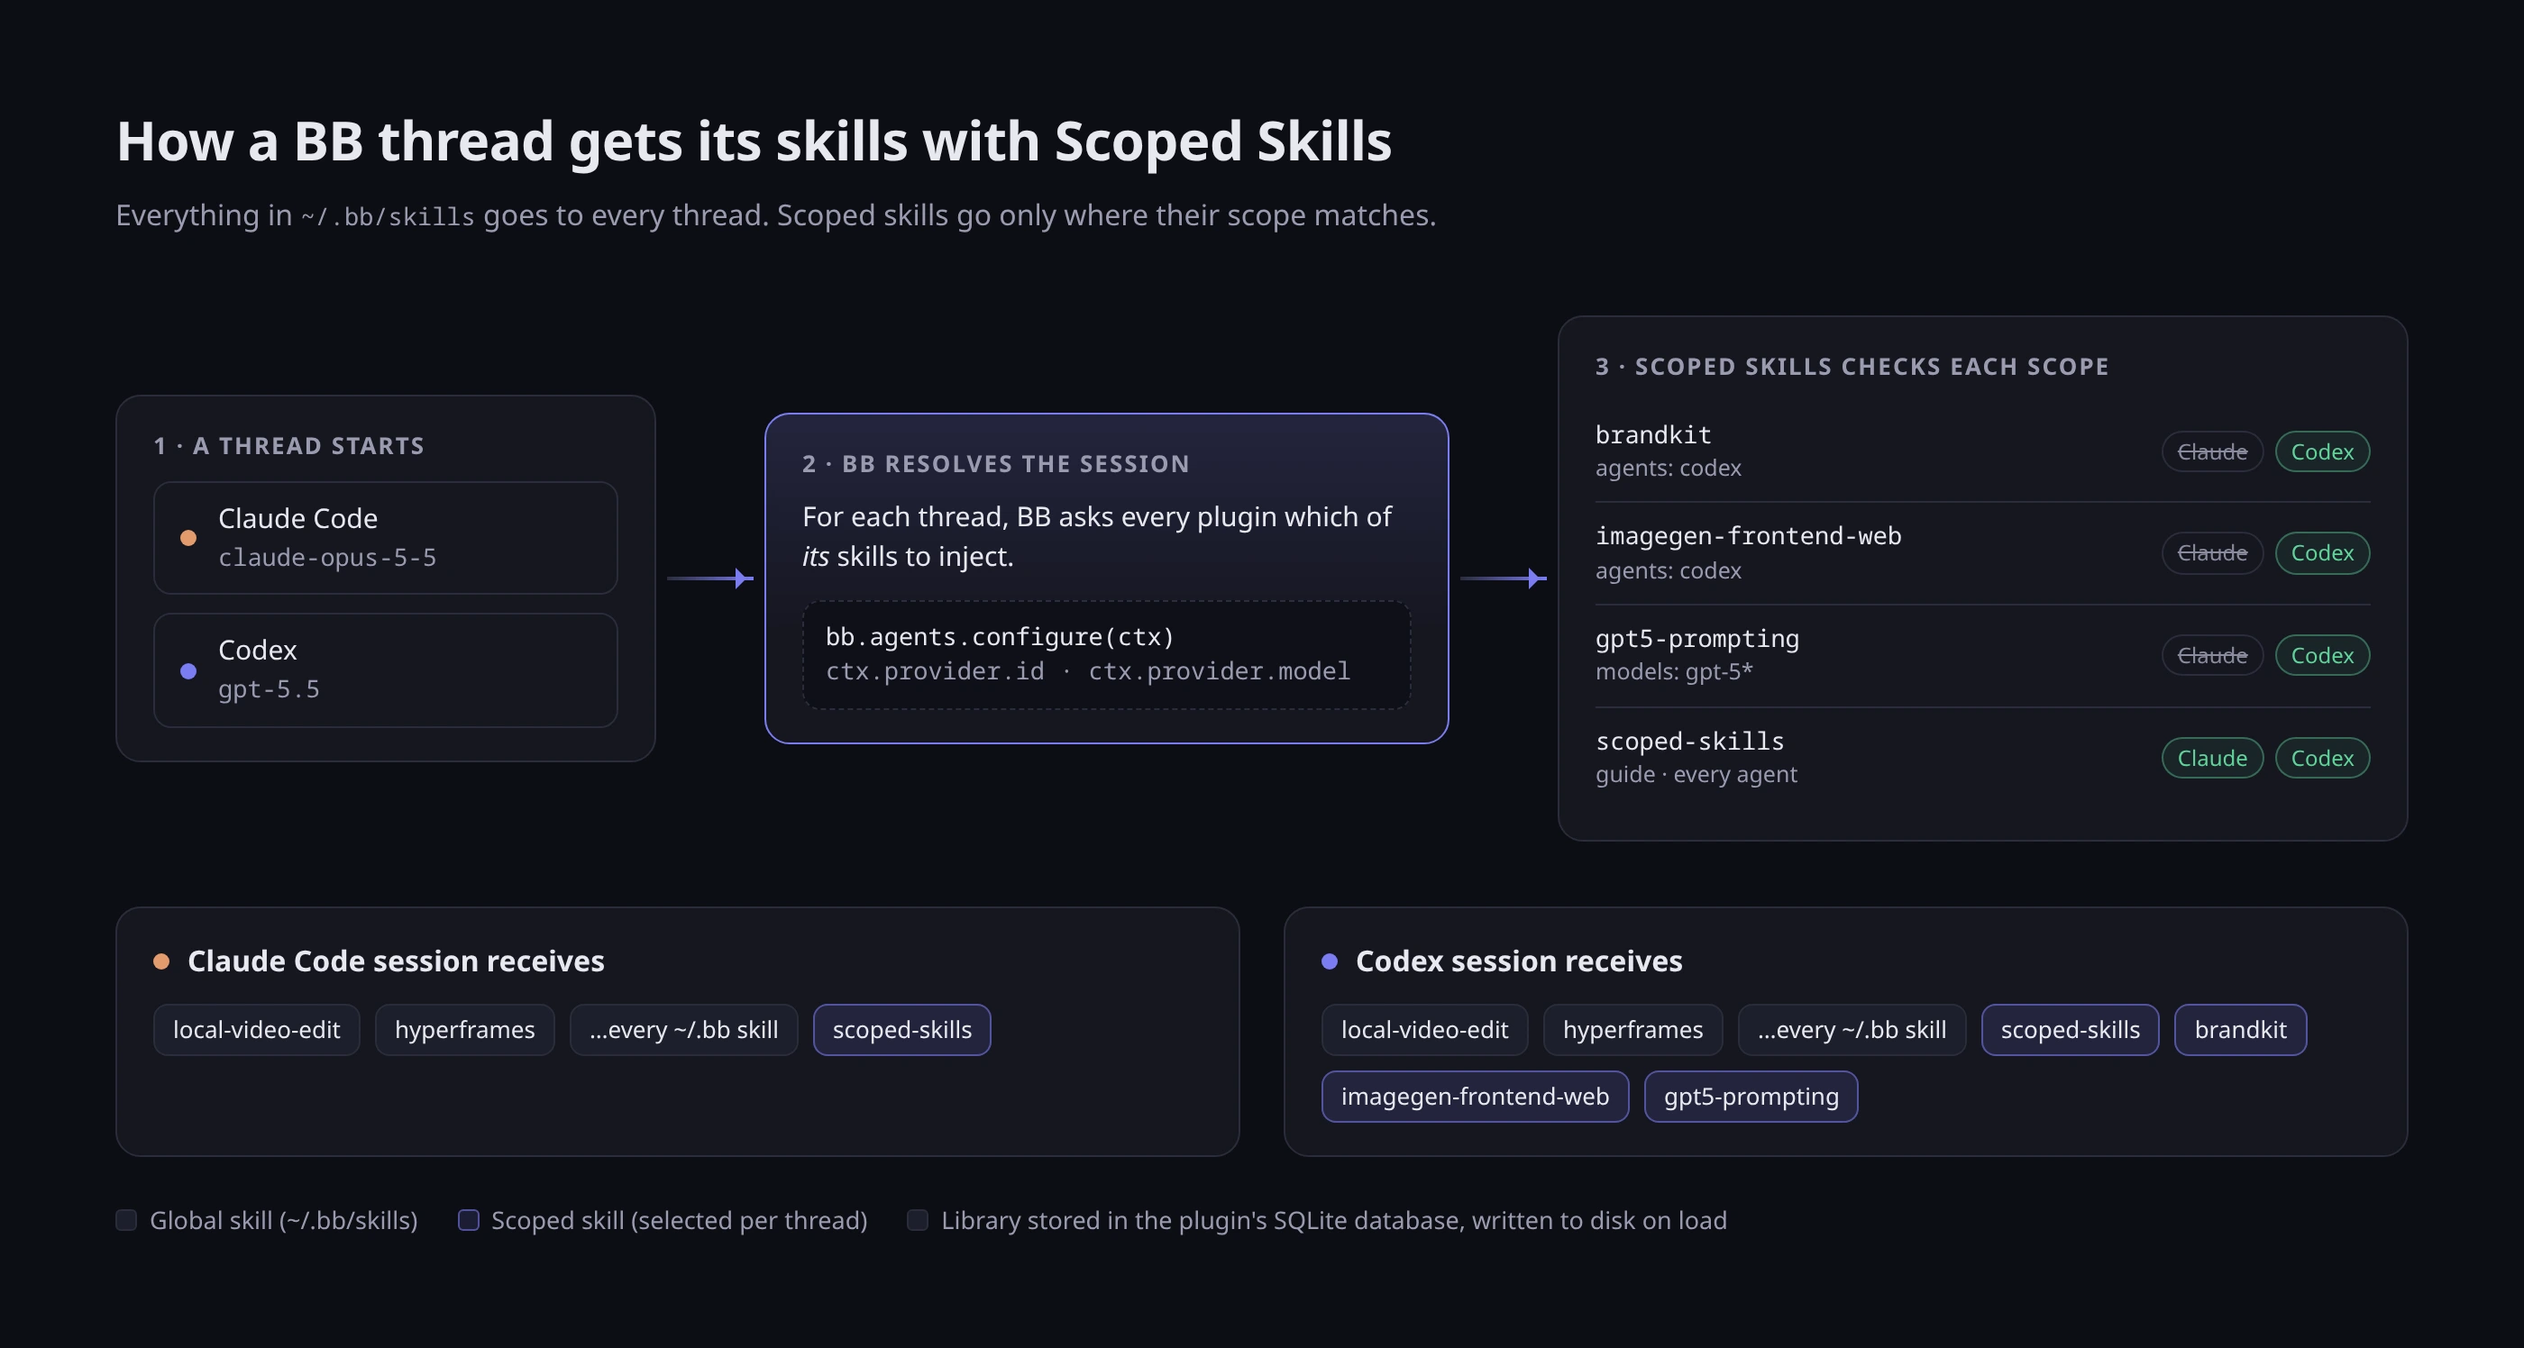
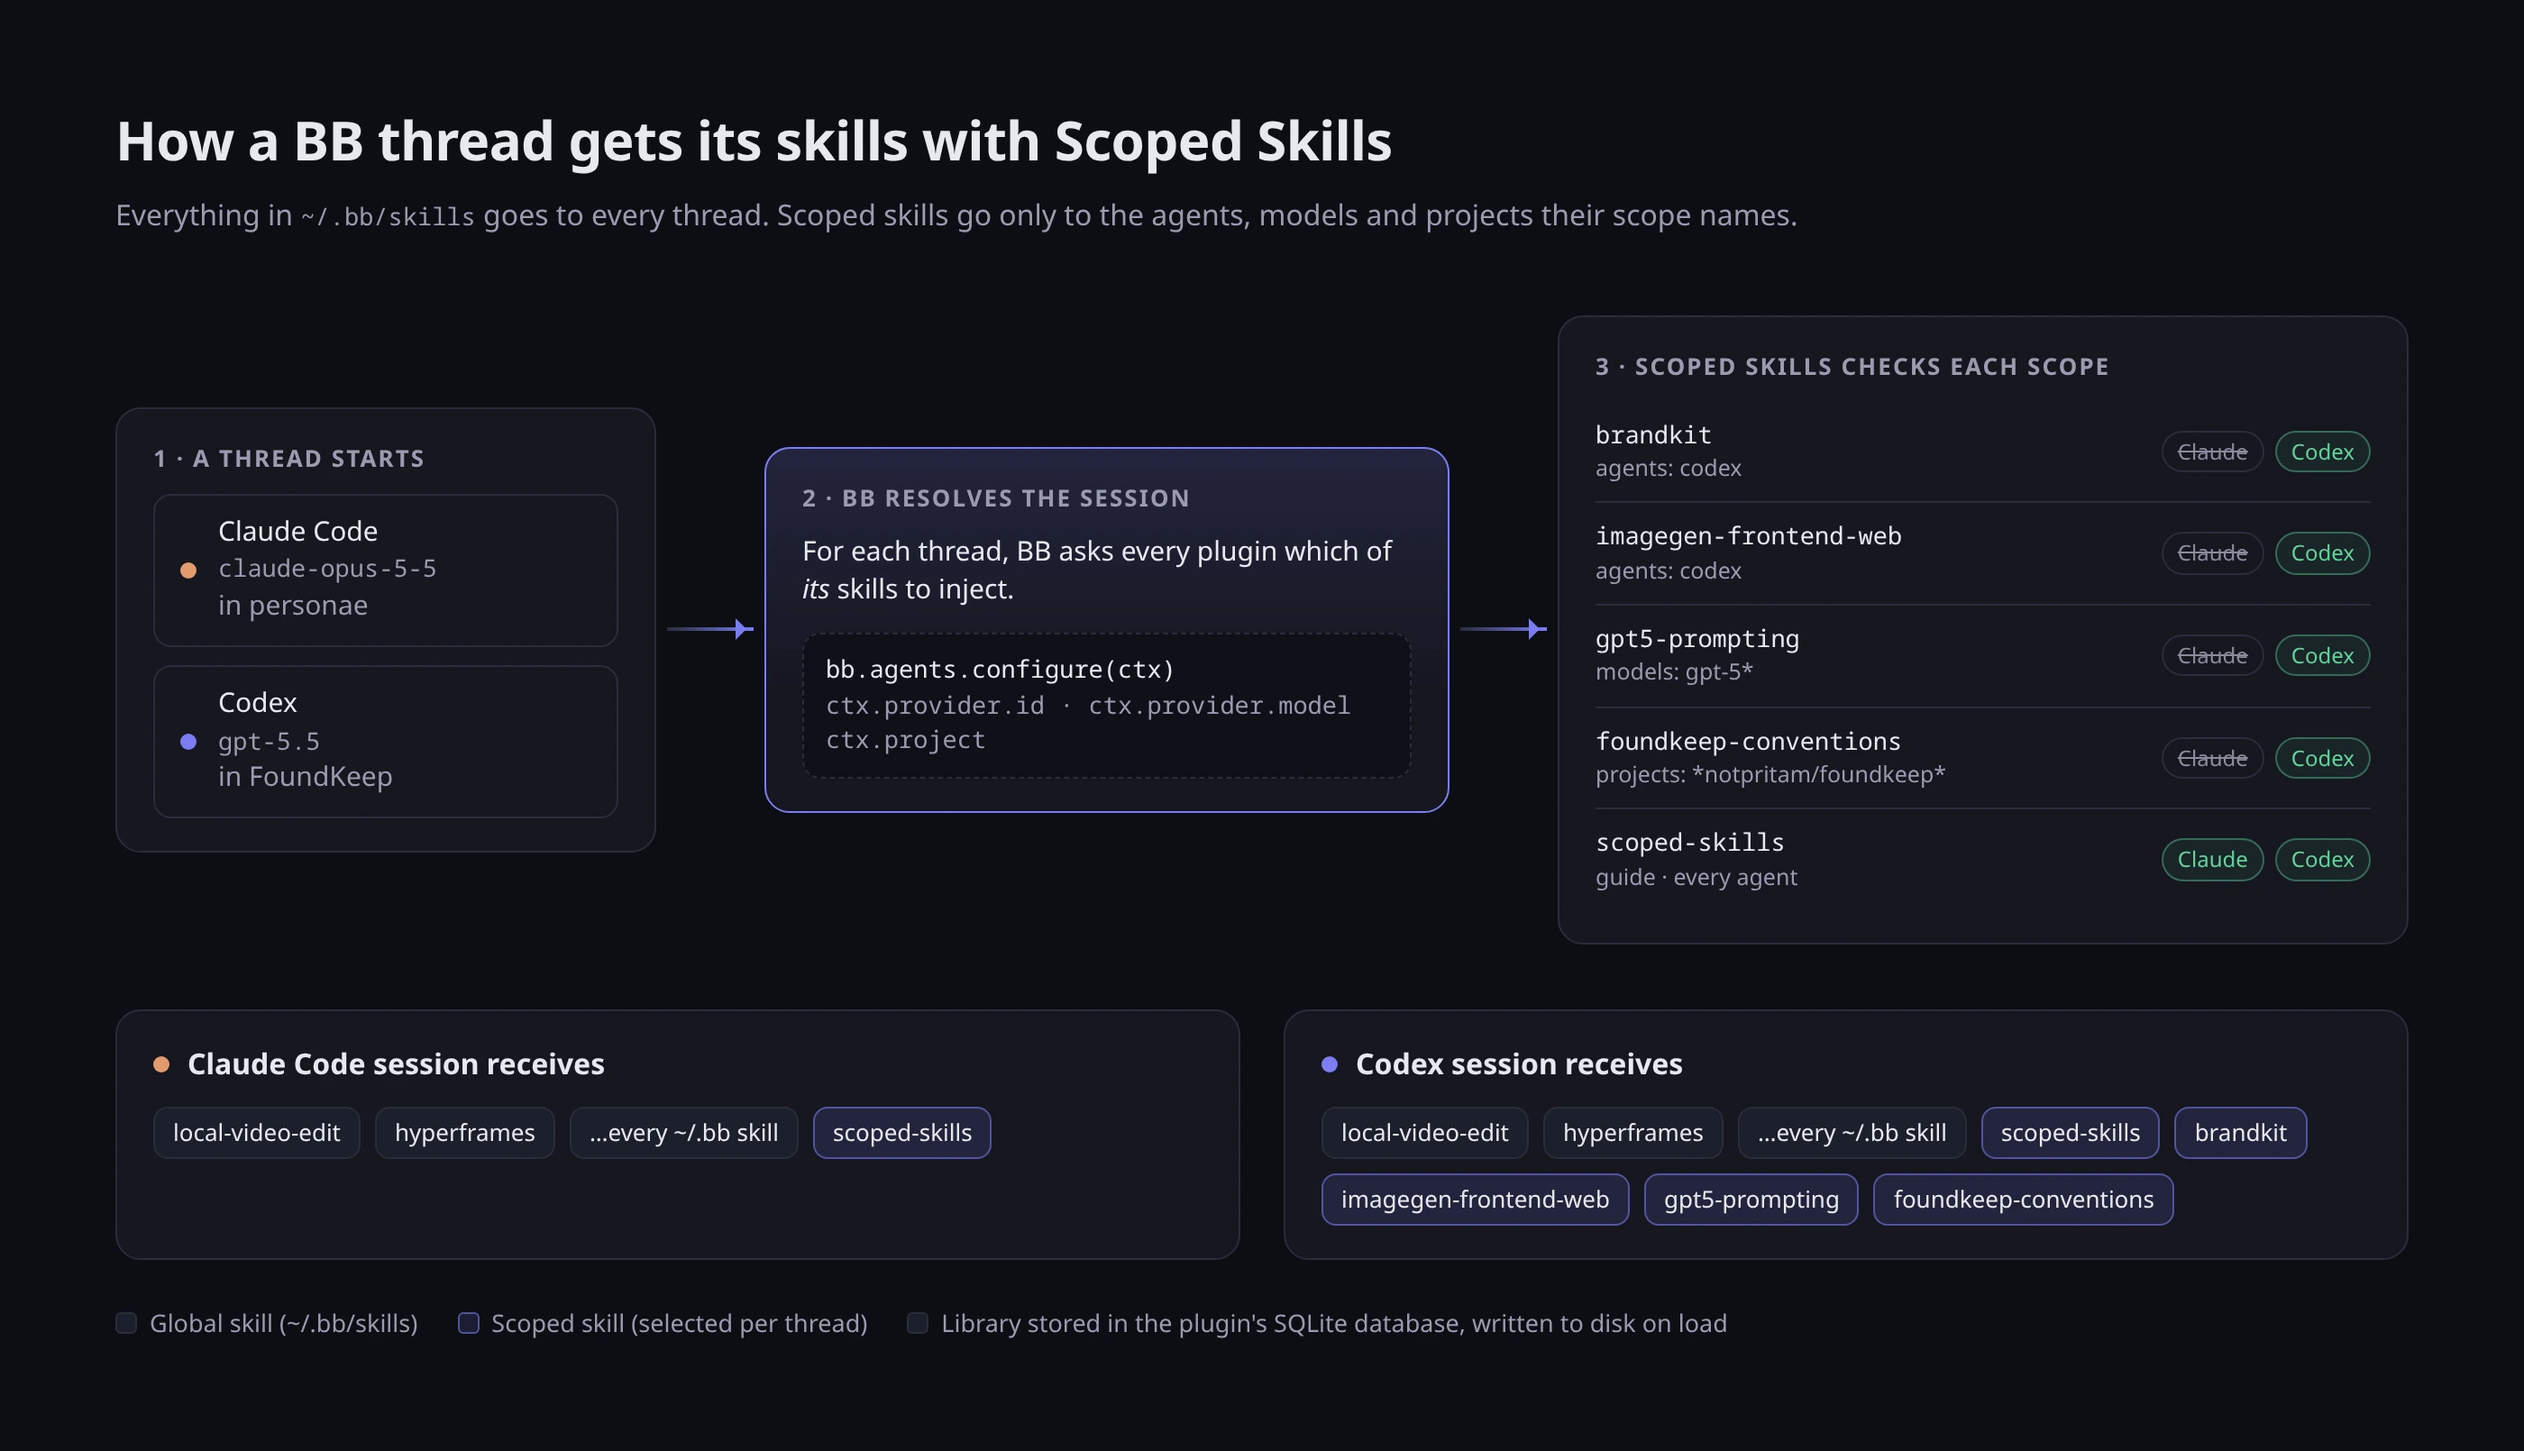
docs: project scopes in the README, diagram and code comments

diff --git a/docs/architecture.html b/docs/architecture.html
@@ -45,19 +45,19 @@
 <body>
 <div class="frame" id="diagram">
   <h1>How a BB thread gets its skills with Scoped Skills</h1>
-  <p class="sub">Everything in <span class="mono">~/.bb/skills</span> goes to every thread. Scoped skills go only where their scope matches.</p>
+  <p class="sub">Everything in <span class="mono">~/.bb/skills</span> goes to every thread. Scoped skills go only to the agents, models and projects their scope names.</p>
 
   <div class="grid">
     <div class="box">
       <h3>1 · A thread starts</h3>
-      <div class="thread"><span class="dot claude"></span><div><div>Claude Code</div><div class="muted mono">claude-opus-5-5</div></div></div>
-      <div class="thread"><span class="dot"></span><div><div>Codex</div><div class="muted mono">gpt-5.5</div></div></div>
+      <div class="thread"><span class="dot claude"></span><div><div>Claude Code</div><div class="muted mono">claude-opus-5-5</div><div class="muted">in personae</div></div></div>
+      <div class="thread"><span class="dot"></span><div><div>Codex</div><div class="muted mono">gpt-5.5</div><div class="muted">in FoundKeep</div></div></div>
     </div>
     <div class="arrow"></div>
     <div class="box core">
       <h3>2 · BB resolves the session</h3>
       <div>For each thread, BB asks every plugin which of <em>its</em> skills to inject.</div>
-      <div class="call mono">bb.agents.configure(ctx)<br><span class="muted">ctx.provider.id · ctx.provider.model</span></div>
+      <div class="call mono">bb.agents.configure(ctx)<br><span class="muted">ctx.provider.id · ctx.provider.model<br>ctx.project</span></div>
     </div>
     <div class="arrow"></div>
     <div class="box">
@@ -67,6 +67,8 @@
       <div class="lib-row"><div><div class="mono">imagegen-frontend-web</div><div class="scope">agents: codex</div></div>
         <div class="verdicts"><span class="v no">Claude</span><span class="v ok">Codex</span></div></div>
       <div class="lib-row"><div><div class="mono">gpt5-prompting</div><div class="scope">models: gpt-5*</div></div>
+        <div class="verdicts"><span class="v no">Claude</span><span class="v ok">Codex</span></div></div>
+      <div class="lib-row"><div><div class="mono">foundkeep-conventions</div><div class="scope">projects: *notpritam/foundkeep*</div></div>
         <div class="verdicts"><span class="v no">Claude</span><span class="v ok">Codex</span></div></div>
       <div class="lib-row"><div><div class="mono">scoped-skills</div><div class="scope">guide · every agent</div></div>
         <div class="verdicts"><span class="v ok">Claude</span><span class="v ok">Codex</span></div></div>
@@ -85,7 +87,7 @@
       <h4><span class="dot"></span>Codex session receives</h4>
       <div class="pills">
         <span class="pill">local-video-edit</span><span class="pill">hyperframes</span><span class="pill">…every ~/.bb skill</span>
-        <span class="pill scoped">scoped-skills</span><span class="pill scoped">brandkit</span><span class="pill scoped">imagegen-frontend-web</span><span class="pill scoped">gpt5-prompting</span>
+        <span class="pill scoped">scoped-skills</span><span class="pill scoped">brandkit</span><span class="pill scoped">imagegen-frontend-web</span><span class="pill scoped">gpt5-prompting</span><span class="pill scoped">foundkeep-conventions</span>
       </div>
     </div>
   </div>

diff --git a/server.ts b/server.ts
@@ -2,8 +2,8 @@
 //
 // BB gives every skill in ~/.bb/skills to every thread. This plugin keeps a
 // library of skills that each carry a scope (which agents, optionally which
-// models) and, through bb.agents.configure, hands a thread only the skills
-// whose scope matches the thread's agent and model.
+// models and projects) and, through bb.agents.configure, hands a thread only
+// the skills whose scope matches the thread's agent, model and project.
 //
 // Storage: the plugin database is the source of truth (skills, files,
 // scopes). On load and after every change the library is written to

diff --git a/core/library.ts b/core/library.ts
@@ -1,6 +1,6 @@
-// Pure library logic for Scoped Skills: reading a skill folder, validating its
-// frontmatter, matching a scope against a thread's agent and model, and
-// writing the materialized library that BB scans as a manifest skill root.
+// Library logic for Scoped Skills: reading a skill folder, validating its
+// frontmatter, and writing the materialized library that BB scans as a
+// manifest skill root. Scope matching lives in scope.ts (re-exported here).
 // Nothing here touches the BB plugin API, so it is unit-testable on its own.
 import {
   existsSync,

diff --git a/README.md b/README.md
@@ -6,8 +6,8 @@ BB hands every skill in `~/.bb/skills` to every thread, whatever agent runs it.
 That breaks down once your agents differ: an image-generation skill is useless
 in Claude Code, which has no image tool, and a prompt tuned for one model can
 mislead another. Scoped Skills keeps a library in which every skill carries a
-scope, and gives a thread only the skills whose scope matches its agent and
-model.
+scope, and gives a thread only the skills whose scope matches its agent,
+model and project.
 
 ![The library previewed as a Codex thread on o4-mini in FoundKeep: five skills included, a GPT-5-only demo skill withheld](docs/screenshots/library.webp)
 
@@ -51,21 +51,23 @@ a thread to check or change a scope.
 ![How a thread gets its skills with Scoped Skills](docs/architecture.webp)
 
 ```
-thread starts ──► BB asks plugins: "agent = codex, model = gpt-5.5 — which skills?"
+thread starts ──► BB asks plugins: "agent = codex, model = gpt-5.5,
+                     project = FoundKeep — which skills?"
                      │
                      ▼
         Scoped Skills checks each skill's scope
-        brandkit        agents: codex           ✓ included
-        gpt-tuning      models: gpt-5*          ✓ included
-        claude-only     agents: claude-code     ✗ withheld
+        brandkit        agents: codex                     ✓ included
+        gpt-tuning      models: gpt-5*                    ✓ included
+        house-rules     projects: *notpritam/foundkeep*   ✓ included
+        claude-only     agents: claude-code               ✗ withheld
                      │
                      ▼
         BB injects only the included skills into the session
 ```
 
 - The plugin registers `bb.agents.configure`. For each thread, BB passes the
-  agent id and model, and the plugin returns the skill names to inject. BB
-  injects none of the plugin's other skills.
+  agent id, model and project, and the plugin returns the skill names to
+  inject. BB injects none of the plugin's other skills.
 - The source of truth is the plugin's SQLite database (skills, files and
   scopes). On load and after every change it writes `library/`, a manifest
   skill root, so a plugin update that replaces the plugin folder never loses
